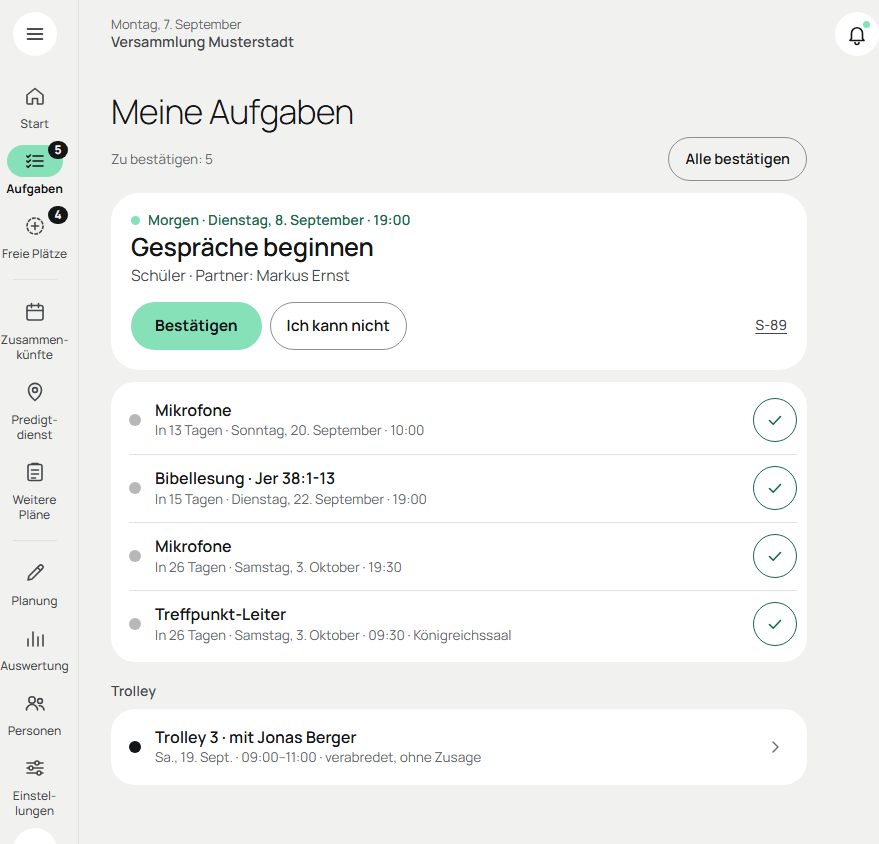
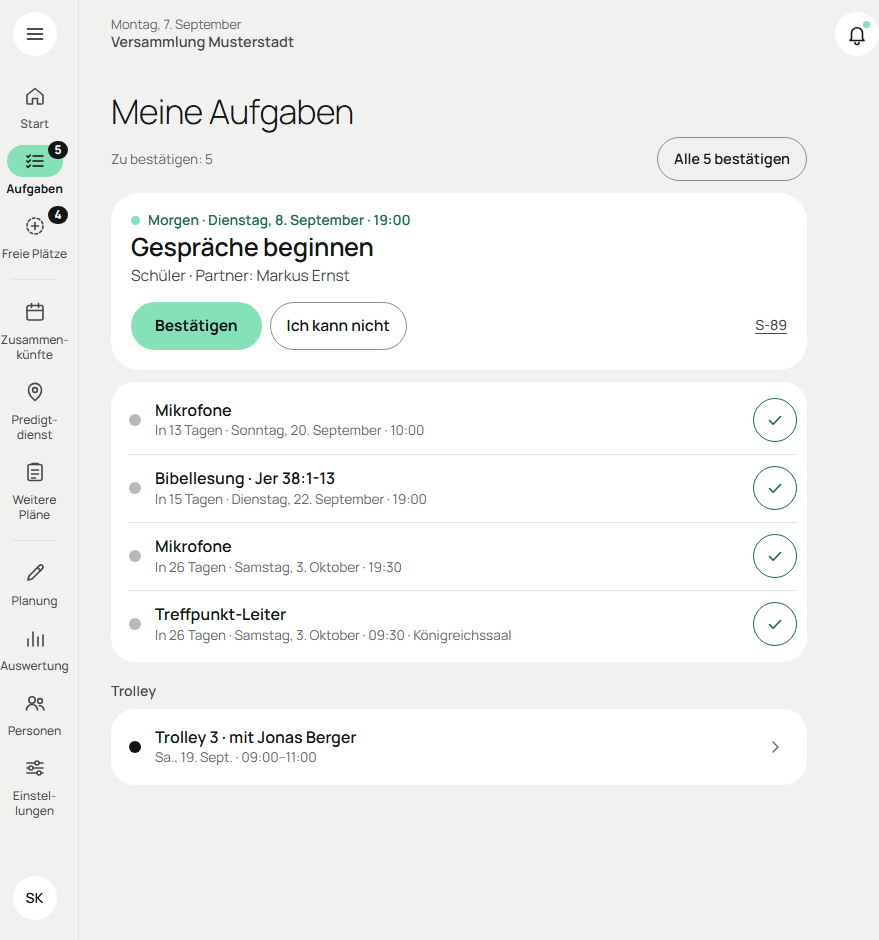
Saal mit Zahl und ohne fremdes Rot, Trolley „mit {Name}", Punkt im Programm nur für dich
Paket 2 aus dem Impeccable-Audit und der Critique vom 18. November (T188, T194, T197):

- Der Saal auf der eigenen Aufgabe nennt die Besetzung sichtbar darunter
  („Besetzung: 20/23 · dein Platz ist markiert"); das Bild ist dann still. Die
  Probleme anderer stehen blass statt rot — rot bleibt nur der eigene Platz
  nach einer Absage (T188).
- Der Trolley-Termin unter „Meine Aufgaben" verliert „verabredet, ohne
  Zusage"; Trolley-Ansicht und Aufgaben zeigen denselben Punkt (T194).
- Im Programm steht der Punkt nur noch am eigenen Platz und an offenen; voll
  heißt in der Punktsprache „zugesagt" (T197).

Handbuch Verkündiger und neun Bilder nachgezogen.

diff --git a/src/dashboard/DashboardScreen.test.tsx b/src/dashboard/DashboardScreen.test.tsx
@@ -279,21 +279,30 @@ describe('Über einer Aufgabe in einer Zusammenkunft steht der Saal', () => {
     return { woche, meine: task({ id: platzKey(woche), at: inTagen(1) }) }
   }
 
-  it('mit Worten für Vorleseprogramme: wie viele Plätze besetzt sind, und dass der eigene markiert ist', () => {
+  it('mit Worten, sichtbar unter dem Bild: wie viele Plätze besetzt sind, und dass der eigene markiert ist (T188)', () => {
     const { woche, meine } = meinAbend()
     const { container } = zeige({ weeks: [woche], myTasks: [meine] })
-    const saal = container.querySelector('svg.saal')
-    expect(saal?.getAttribute('role')).toBe('img')
     // Bibellesung (ich) + Mikrofon 1 besetzt, Mikrofon 2 offen.
-    expect(saal?.getAttribute('aria-label')).toBe(`${zahlBinden(`${t.saalBesetzung}: 2/3`)} · ${t.saalDeinPlatz}`)
+    expect(container.querySelector('.saal-figur figcaption')?.textContent).toBe(
+      `${zahlBinden(`${t.saalBesetzung}: 2/3`)} · ${t.saalDeinPlatz}`,
+    )
+    // Das Bild ist dann still — sonst läse ein Vorleseprogramm die Zahl zweimal.
+    expect(container.querySelector('svg.saal')?.getAttribute('aria-hidden')).toBe('true')
     expect(container.querySelectorAll('.saal-du')).toHaveLength(1)
   })
 
-  it('eine Absage im Abend steht rot im Saal', () => {
+  it('die Absage eines anderen steht blass im Saal, nicht rot — man kann sie nicht beheben (T188)', () => {
     const { woche, meine } = meinAbend()
     const confirmations: ConfirmationMap = { [helferKey(woche.start, 'mid', 'mik', 0)]: 'verhindert' }
     const { container } = zeige({ weeks: [woche], myTasks: [meine], confirmations })
-    expect(container.querySelectorAll('.saal-platz.is-problem').length).toBeGreaterThan(0)
+    expect(container.querySelectorAll('.saal-platz.is-problem')).toHaveLength(0)
+    expect(container.querySelectorAll('.saal-platz.is-wartet').length).toBeGreaterThan(0)
+  })
+
+  it('Gegenprobe: die eigene Absage bleibt rot — am eigenen Platz', () => {
+    const { woche, meine } = meinAbend()
+    const { container } = zeige({ weeks: [woche], myTasks: [{ ...meine, status: 'verhindert' }] })
+    expect(container.querySelector('.saal-du.is-problem')).toBeTruthy()
   })
 
   /*

diff --git a/src/bausteine/Saal.tsx b/src/bausteine/Saal.tsx
@@ -33,11 +33,39 @@ const DU_KLASSE: Record<DuLage, string> = {
  * rot nach einer Absage. Mit der Zusage füllt er sich von der Mitte her in
  * Minze — eine Füllung über dem Grund, die wächst (bausteine.css). Bis dahin
  * war er immer in Minze, ob zugesagt oder nicht.
+ *
+ * **`sichtbar`** (T188): Die Beschriftung steht als Zeile unter dem Bild statt
+ * nur für Vorleseprogramme — sonst erfuhr, wer nicht sieht, mehr als wer
+ * sieht. Das Bild ist dann still, damit sie nicht zweimal vorgelesen wird.
  */
-export function Saal({ lagen, label, du = 'voll' }: { lagen: readonly SaalLage[]; label: string; du?: DuLage }) {
+export function Saal({
+  lagen,
+  label,
+  du = 'voll',
+  sichtbar = false,
+}: {
+  lagen: readonly SaalLage[]
+  label: string
+  du?: DuLage
+  sichtbar?: boolean
+}) {
+  if (sichtbar) {
+    return (
+      <figure className="saal-figur">
+        <SaalBild lagen={lagen} du={du} />
+        <figcaption className="saal-zahl">{label}</figcaption>
+      </figure>
+    )
+  }
+  return <SaalBild lagen={lagen} du={du} label={label} />
+}
+
+/** Das Bild allein — ohne `label` still (`aria-hidden`), weil die Beschriftung daneben steht. */
+function SaalBild({ lagen, du, label }: { lagen: readonly SaalLage[]; du: DuLage; label?: string }) {
   const [pultX, pultY] = LOGO_GROSS.pult.mitte
+  const a11y = label === undefined ? { 'aria-hidden': true } : { role: 'img', 'aria-label': label }
   return (
-    <svg className="saal" viewBox={LOGO_GROSS.viewBox} role="img" aria-label={label}>
+    <svg className="saal" viewBox={LOGO_GROSS.viewBox} {...a11y}>
       <circle className="logo-pult" cx={pultX} cy={pultY} r={LOGO_GROSS.pult.r} />
       {PLAETZE.map(([x, y], i) => {
         const lage = lagen[i] ?? 'offen'

diff --git a/src/aufgaben/useSaal.ts b/src/aufgaben/useSaal.ts
@@ -10,6 +10,11 @@ import { besetzungText, useT } from '../i18n/useT'
  * mit dem eigenen Platz — oder `null`, wo es keine Zusammenkunft gibt
  * (Treffpunkt, Trolley) oder ihre Woche nicht geladen ist. `du` ist der Stand
  * der eigenen Zusage: Mit ihr füllt sich der eigene Platz (29.10.2026).
+ *
+ * **Die Probleme anderer zeigt er blass, wie „wartet"** (T188): Ein roter
+ * Punkt neben dem eigenen Platz verunsicherte — man hielt ihn für den eigenen
+ * Fehler und kann ihn doch nicht beheben. Rot bleibt nur der eigene Platz nach
+ * einer Absage; die Probleme sieht, wer plant.
  */
 export function useSaal(task: MyTask | undefined): { lagen: SaalLage[]; label: string; du: DuLage } | null {
   const { state } = useApp()
@@ -21,6 +26,7 @@ export function useSaal(task: MyTask | undefined): { lagen: SaalLage[]; label: s
     const b = besetzung(week[ort.tab], state.services, state.confirmations, state.persoenlich, ort.woche, ort.tab, task.id)
     const { besetzt, gesamt } = besetztVon(b)
     const label = [besetzungText(t, besetzt, gesamt), b.du ? t.saalDeinPlatz : ''].filter(Boolean).join(' · ')
-    return { lagen: saalLagen(b), label, du: LAGE_DER_ZUSAGE[task.status] }
+    const ohneFremdeProbleme = { ...b, wartet: b.wartet + b.problem, problem: 0 }
+    return { lagen: saalLagen(ohneFremdeProbleme), label, du: LAGE_DER_ZUSAGE[task.status] }
   }, [task, state.weeks, state.services, state.confirmations, state.persoenlich, t])
 }

diff --git a/src/aufgaben/AufgabenScreen.test.tsx b/src/aufgaben/AufgabenScreen.test.tsx
@@ -189,7 +189,7 @@ describe('Trolley', () => {
     expect(bereich(container)).toBeNull()
   })
 
-  it('je Termin: Trolley und mit wem, darunter Tag und Zeit — verabredet, ohne Zusage, ohne Haken', () => {
+  it('je Termin: Trolley und mit wem, darunter Tag und Zeit — ohne Haken, ohne eigenen Wortlaut (T194)', () => {
     const { container } = mit([termin(), termin({ id: 'r2', datum: tag(7), pid: 'p-a', partner: null, gemeinsam: false })])
     const b = bereich(container)!
     expect(b.querySelector('h2')?.textContent).toBe(t.privZeugnis)
@@ -197,8 +197,13 @@ describe('Trolley', () => {
       'Trolley 3 · mit Jonas Berger',
       `Trolley 3 · ${t.trolleyPartnerGesucht}`,
     ])
-    expect(b.querySelector('.aufgaben-zeile .klein-text')?.textContent).toMatch(/ · 09:00–11:00 · verabredet, ohne Zusage$/)
+    expect(b.querySelector('.aufgaben-zeile .klein-text')?.textContent).toMatch(/ · 09:00–11:00$/)
     expect(b.querySelector('.knopf-haken')).toBeNull()
+    // Derselbe Punkt wie in der Trolley-Ansicht: voll mit Partner, gestrichelt ohne.
+    expect([...b.querySelectorAll('.punkt')].map((p) => p.getAttribute('class'))).toEqual([
+      expect.stringContaining('voll'),
+      expect.stringContaining('offen'),
+    ])
   })
 
   it('ein Tipp führt zu den Trolleys', () => {

diff --git a/src/i18n/overlays/ru.ts b/src/i18n/overlays/ru.ts
@@ -684,7 +684,6 @@ export default {
   "trolleyDelTermine": "Предстоящие записи будут удалены.",
   "trolleyDelBescheid": "Все записавшиеся получат уведомление.",
   "trolleyEntfernen": "Удалить стенд с литературой",
-  "trolleyOhneZusage": "по договорённости, без подтверждения",
   "gruppenUndTrolleys": "Группы и стенды с литературой",
   "trolleysN": "Стендов: {n}",
   "gruppeTrolleyBeiPerson": "Кто в какой группе и кому разрешено участвовать в служении со стендом, вы задаёте в данных человека.",

diff --git a/src/i18n/overlays/uk.ts b/src/i18n/overlays/uk.ts
@@ -684,7 +684,6 @@ export default {
   "trolleyDelTermine": "Майбутні записи буде видалено.",
   "trolleyDelBescheid": "Усі записані отримають сповіщення.",
   "trolleyEntfernen": "Видалити стенд з літературою",
-  "trolleyOhneZusage": "за домовленістю, без підтвердження",
   "gruppenUndTrolleys": "Групи й стенди з літературою",
   "trolleysN": "Стендів: {n}",
   "gruppeTrolleyBeiPerson": "Хто в якій групі й кому дозволено брати участь у служінні зі стендом, ви вказуєте в даних людини.",

diff --git a/src/i18n/overlays/fa.ts b/src/i18n/overlays/fa.ts
@@ -683,7 +683,6 @@ export default {
   "trolleyDelTermine": "نوبتهای آینده حذف میشوند.",
   "trolleyDelBescheid": "کسانی که ثبتنام کردهاند باخبر میشوند.",
   "trolleyEntfernen": "حذف چرخدستی",
-  "trolleyOhneZusage": "با قرار قبلی، بدون تأیید",
   "gruppenUndTrolleys": "گروهها و چرخدستیها",
   "trolleysN": "{n} چرخدستی",
   "gruppeTrolleyBeiPerson": "در صفحهٔ فرد تعیین میکنید که هر کس در کدام گروه است و چه کسی اجازه دارد با چرخدستی موعظه کند.",

diff --git a/src/aufgaben/AufgabeKarte.tsx b/src/aufgaben/AufgabeKarte.tsx
@@ -29,7 +29,7 @@ export function AufgabeKarte({ task, saal = false }: { task: MyTask; saal?: bool
       {/* Je Aufgabe ein eigener Saal: Wechselt die Aufgabe (die nächste ist über
           Nacht eine andere), füllt sich ihr Platz nicht, als hätte man eben
           bestätigt — der Übergang gehört nur zum Bestätigen. */}
-      {besetzung && <Saal key={task.id} lagen={besetzung.lagen} label={besetzung.label} du={besetzung.du} />}
+      {besetzung && <Saal key={task.id} lagen={besetzung.lagen} label={besetzung.label} du={besetzung.du} sichtbar />}
       <div className="aufgabe-wann">
         <Punkt art="du" />
         <span>

diff --git a/src/trolleys/TrolleyListen.tsx b/src/trolleys/TrolleyListen.tsx
@@ -37,7 +37,8 @@ export function DeineTermine({
         ]
         return (
           <button key={termin.id} type="button" className="trolley-zeile" onClick={() => onTermin(termin)}>
-            <Punkt art="du" />
+            {/* Derselbe Punkt wie unter „Meine Aufgaben" (T194): voll mit Partner, gestrichelt, solange einer gesucht wird. */}
+            <Punkt art={termin.partner ? 'voll' : 'offen'} />
             <span className="trolley-zeile-text">
               <span className="trolley-zeile-titel">{`${tagKurz(termin.datum, state.lang)} · ${zeitSpanne(termin)}`}</span>
               <span className="klein-text" dir="auto">

diff --git a/src/trolleys/trolley-ansicht.test.tsx b/src/trolleys/trolley-ansicht.test.tsx
@@ -95,6 +95,8 @@ describe('oben: die eigenen Termine und wer einen Partner sucht', () => {
     expect(deine.textContent).toContain('Trolley 3')
     expect(deine.textContent).toContain(fill(t.trolleyMit, { name: 'Jonas Berger' }))
     expect(deine.textContent).toContain(fill(t.trolleyBeideEingetragen, { name: 'Jonas' }))
+    // Derselbe Punkt wie unter „Meine Aufgaben" (T194): mit Partner voll.
+    expect(deine.querySelector('.trolley-zeile .punkt')?.getAttribute('class')).toBe('punkt is-voll')
   })
 
   it('Jonas sucht einen Partner — „Dazukommen" trägt Simon ein und legt die Antwort in den Zustand', async () => {

diff --git a/src/aufgaben/AufgabenScreen.tsx b/src/aufgaben/AufgabenScreen.tsx
@@ -114,7 +114,7 @@ function TrolleyTermine() {
               <span className="aufgaben-zeile-titel" dir="auto">
                 {`${trolleyNameVon(state.trolleys, termin.trolleyId)} · ${mitWem(termin, ich, state.persons, t)}`}
               </span>
-              <span className="klein-text">{`${tagKurz(termin.datum, state.lang)} · ${zeitSpanne(termin)} · ${t.trolleyOhneZusage}`}</span>
+              <span className="klein-text">{`${tagKurz(termin.datum, state.lang)} · ${zeitSpanne(termin)}`}</span>
             </button>
             <span className="aufgaben-zeile-pfeil">
               <Zeichen name="weiter" />

diff --git a/src/i18n/overlays/ar.ts b/src/i18n/overlays/ar.ts
@@ -684,7 +684,6 @@ export default {
   "trolleyDelTermine": "ستُلغى المواعيد القادمة.",
   "trolleyDelBescheid": "سيصل إشعار إلى كل من لديه موعد.",
   "trolleyEntfernen": "إزالة عربة المطبوعات",
-  "trolleyOhneZusage": "بالاتفاق، دون تأكيد",
   "gruppenUndTrolleys": "الفرق وعربات المطبوعات",
   "trolleysN": "عربات المطبوعات: {n}",
   "gruppeTrolleyBeiPerson": "يُحدَّد في صفحة الشخص إلى أي فريق ينتمي وهل يُسمح له بالخدمة على عربة المطبوعات.",
